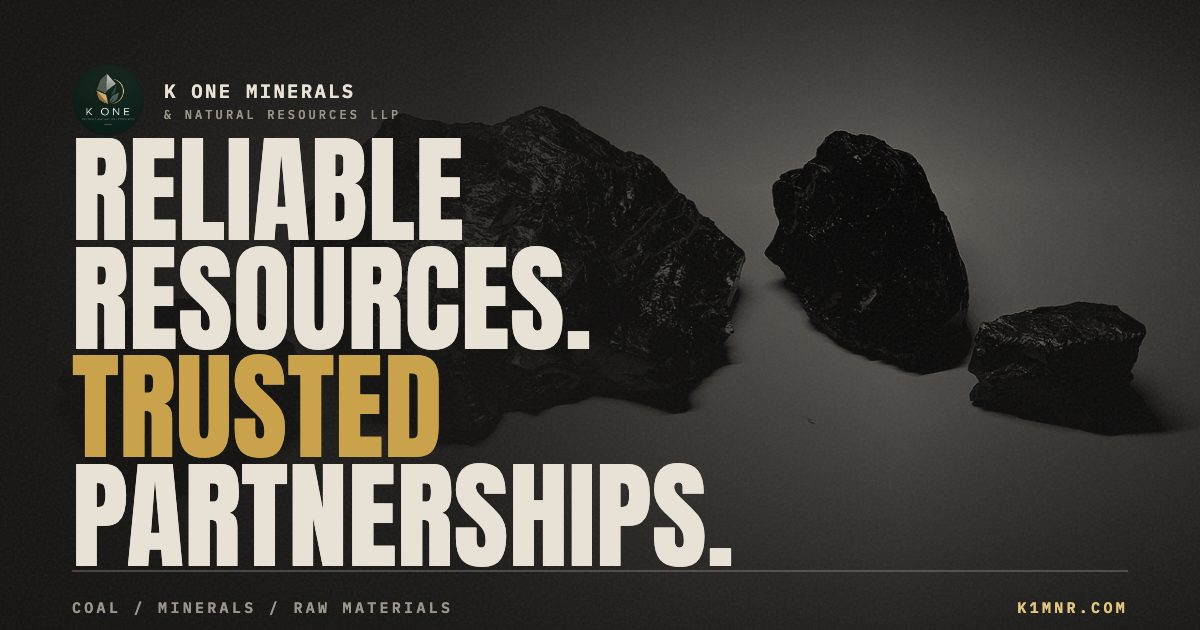
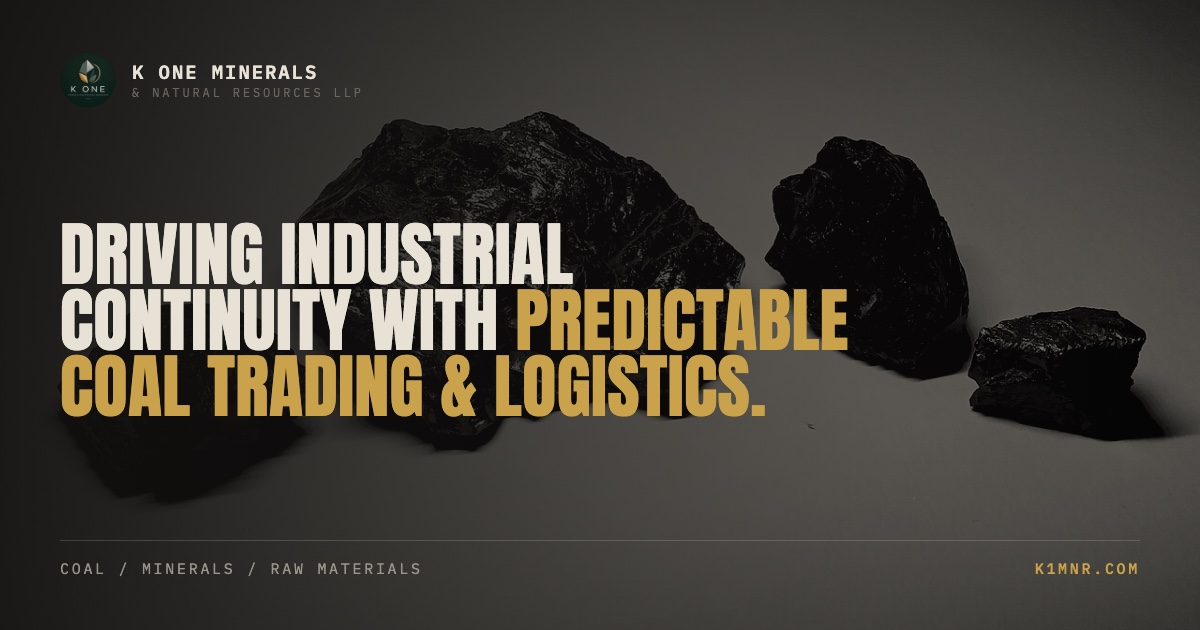
Reposition site around coal trading & logistics per client feedback
Copy rewrite across hero, about, products, supply band, industries and
why sections. Removes the about spec list (and its now-dead CSS and
counter JS), shortens industry labels to 01/02/03, and moves core values
into the left column to rebalance the about grid.

Retires the "Reliable Resources. Trusted Partnerships." tagline from the
footer and meta descriptions; og.jpg regenerated since the old headline
was baked into the artwork.

diff --git a/index.html b/index.html
@@ -4,20 +4,20 @@
 <meta charset="UTF-8">
 <meta name="viewport" content="width=device-width, initial-scale=1.0">
 <title>K One Minerals &amp; Natural Resources LLP — Industrial Commodity Procurement &amp; Trading</title>
-<meta name="description" content="K One Minerals & Natural Resources LLP is a professionally managed procurement and commodity trading company specializing in sourcing and supplying minerals, industrial raw materials, and energy resources across India and international markets.">
-<meta name="keywords" content="commodity trading, industrial minerals, coal supply, limestone, dolomite, iron ore, procurement services, bulk mineral supply, Hyderabad, India">
+<meta name="description" content="K One Minerals & Natural Resources LLP secures high-grade thermal and metallurgical coal directly from global tier-1 mines, handling end-to-end port logistics for India's cement, steel and power industries.">
+<meta name="keywords" content="thermal coal supply, metallurgical coal, coal trading, port logistics, commodity trading, industrial minerals, limestone, dolomite, iron ore, procurement services, Hyderabad, India">
 <meta property="og:title" content="K One Minerals & Natural Resources LLP">
-<meta property="og:description" content="Reliable Resources. Trusted Partnerships. Delivering Industrial Commodities with Integrity.">
+<meta property="og:description" content="Driving industrial continuity with predictable coal trading & logistics — direct from tier-1 mines to your plant gate.">
 <meta property="og:type" content="website">
 <meta property="og:url" content="https://k1mnr.com">
 <meta property="og:site_name" content="K One Minerals & Natural Resources LLP">
 <meta property="og:image" content="https://k1mnr.com/assets/og.jpg">
 <meta property="og:image:width" content="1200">
 <meta property="og:image:height" content="630">
-<meta property="og:image:alt" content="K One Minerals — Reliable Resources. Trusted Partnerships.">
+<meta property="og:image:alt" content="K One Minerals — Driving industrial continuity with predictable coal trading & logistics.">
 <meta name="twitter:card" content="summary_large_image">
 <meta name="twitter:title" content="K One Minerals & Natural Resources LLP">
-<meta name="twitter:description" content="Reliable Resources. Trusted Partnerships. Delivering Industrial Commodities with Integrity.">
+<meta name="twitter:description" content="Driving industrial continuity with predictable coal trading & logistics — direct from tier-1 mines to your plant gate.">
 <meta name="twitter:image" content="https://k1mnr.com/assets/og.jpg">
 <link rel="canonical" href="https://k1mnr.com">
 <link rel="icon" type="image/png" sizes="32x32" href="assets/favicon-32.png">
@@ -207,7 +207,7 @@ body::before{
 .hero-meta b{color:var(--ember-hot);font-weight:500}
 .hero h1{
   font-family:var(--display);font-weight:400;text-transform:uppercase;
-  font-size:clamp(50px,9.4vw,136px);line-height:.9;letter-spacing:.005em;
+  font-size:clamp(34px,5.7vw,82px);line-height:.94;letter-spacing:.005em;
   color:var(--bone);
 }
 .hero h1 .x{color:var(--ember);-webkit-text-stroke:0}
@@ -269,20 +269,7 @@ body::before{
   font-size:clamp(17px,1.65vw,22px);line-height:1.6;color:#33302A;
   margin-top:36px;font-weight:300;
 }
-.about-statement em{font-style:normal;color:var(--ember);font-weight:500}
-/* spec-sheet stats */
-.spec{margin-top:56px;border-top:2px solid var(--carbon)}
-.spec-row{
-  display:grid;grid-template-columns:88px 1fr auto;gap:20px;align-items:baseline;
-  padding:18px 4px;border-bottom:1px solid var(--paper-line);
-}
-.spec-row i{font-family:var(--mono);font-style:normal;font-size:10.5px;letter-spacing:.14em;color:#8A8474}
-.spec-row span{font-size:14.5px;color:#4A463E;letter-spacing:.02em;text-transform:uppercase;font-weight:500}
-.spec-row b{
-  font-family:var(--display);font-weight:400;font-size:clamp(23px,2.15vw,32px);
-  color:var(--carbon);letter-spacing:.01em;
-}
-.spec-row b .x{color:var(--ember)}
+.about-statement em,.lead em{font-style:normal;color:var(--ember);font-weight:500}
 /* photo panel — natural rock cutout */
 .about-photo{position:relative;padding:10px 0}
 .about-photo img{
@@ -296,6 +283,8 @@ body::before{
   text-transform:uppercase;color:var(--ember);margin-bottom:10px;
 }
 .vm-card p{font-size:15px;line-height:1.7;color:#4A463E}
+.vm-card p+p{margin-top:10px}
+.vm-card .vm-lead{color:var(--carbon);font-weight:500}
 .values{display:flex;flex-wrap:wrap;gap:8px;margin-top:4px}
 .values li{
   font-family:var(--mono);font-size:10.5px;font-weight:500;letter-spacing:.12em;text-transform:uppercase;
@@ -613,9 +602,9 @@ footer{background:#0B0A09;color:var(--smoke-dark);padding:76px 0 38px;border-top
   <div class="hero-bg" aria-hidden="true"></div>
   <div class="container hero-inner">
     <p class="hero-meta h-anim"><span><b>EST.</b> HYDERABAD, IN</span><span><b>17.4359°N</b> 78.3945°E</span><span>PROCUREMENT — COMMODITY TRADING</span></p>
-    <h1 class="h-anim">Reliable<br>Resources.<br><span class="x">Trusted</span> Partnerships.</h1>
+    <h1 class="h-anim">Driving industrial continuity<br>with <span class="x">predictable coal<br>trading &amp; logistics.</span></h1>
     <div class="hero-row h-anim">
-      <p class="hero-sub">Delivering industrial commodities with integrity. K One Minerals &amp; Natural Resources LLP is a professionally managed procurement and trading house sourcing <strong>minerals, industrial raw materials, and energy resources</strong> for India's heaviest industries.</p>
+      <p class="hero-sub">We secure <strong>high-grade thermal and metallurgical coal</strong> directly from global tier-1 mines, handling end-to-end port logistics so your power plants and furnaces never run dry.</p>
       <div class="hero-ctas">
         <a class="btn btn-ember" href="#contact">Contact Us
           <svg width="16" height="12" viewBox="0 0 16 12" fill="none"><path d="M1 6h13M10 1l5 5-5 5" stroke="currentColor" stroke-width="1.5"/></svg>
@@ -648,12 +637,17 @@ footer{background:#0B0A09;color:var(--smoke-dark);padding:76px 0 38px;border-top
     <div class="about-grid">
       <div>
         <p class="tag reveal">Who We Are</p>
-        <h2 class="h-display section-title reveal reveal-d1">Built on integrity.<br>Engineered <span class="x">for supply.</span></h2>
-        <p class="about-statement reveal reveal-d2">We serve the <em>cement, steel and power</em> sectors — disciplined procurement, dependable delivery, one consignment at a time.</p>
-        <div class="spec reveal reveal-d3">
-          <div class="spec-row"><i>SPEC—01</i><span>Core Sectors Served</span><b><span class="cnt" data-count="3">0</span><span class="x">+</span></b></div>
-          <div class="spec-row"><i>SPEC—02</i><span>Transparent Documentation</span><b><span class="cnt" data-count="100">0</span><span class="x">%</span></b></div>
-          <div class="spec-row"><i>SPEC—03</i><span>Supply Chain Coverage</span><b><span class="cnt" data-count="360">0</span><span class="x">°</span></b></div>
+        <h2 class="h-display section-title reveal reveal-d1">Built for the industries<br><span class="x">that cannot stop.</span></h2>
+        <p class="about-statement reveal reveal-d2">We exist to take global supply chain volatility off your balance sheet with precision-grade energy resources with absolute timeline certainty.</p>
+        <p class="lead reveal reveal-d3" style="margin-top:26px">We serve the <em>cement, steel and power</em> sectors — disciplined procurement, dependable delivery, one consignment at a time.</p>
+        <div class="vm reveal reveal-d3">
+          <div class="vm-card">
+            <h3>Core Values</h3>
+            <ul class="values">
+              <li>Integrity</li><li>Reliability</li><li>Transparency</li>
+              <li>Professionalism</li><li>Commitment</li><li>Customer Success</li>
+            </ul>
+          </div>
         </div>
       </div>
       <div>
@@ -663,18 +657,13 @@ footer{background:#0B0A09;color:var(--smoke-dark);padding:76px 0 38px;border-top
         <div class="vm reveal reveal-d1">
           <div class="vm-card">
             <h3>Vision</h3>
-            <p>To become one of India's most trusted commodity procurement and natural resource trading companies.</p>
+            <p class="vm-lead">To eliminate supply risk from industrial energy procurement.</p>
+            <p>We envision a global market where heavy industry never faces power drops, production halts, or unpredictable cost spikes due to trade bottlenecks. K ONE is setting the standard for transparent, ironclad commodity delivery across borders.</p>
           </div>
           <div class="vm-card">
             <h3>Mission</h3>
-            <p>Quality sourcing. Strategic partnerships. Transparent business. An efficient supply chain clients can build production schedules on.</p>
-          </div>
-          <div class="vm-card">
-            <h3>Core Values</h3>
-            <ul class="values">
-              <li>Integrity</li><li>Reliability</li><li>Transparency</li>
-              <li>Professionalism</li><li>Commitment</li><li>Customer Success</li>
-            </ul>
+            <p class="vm-lead">To connect primary energy extraction directly to industrial execution with zero friction.</p>
+            <p>We leverage direct-from-mine access, strategic port controls, and rigorous quality inspection to deliver exact-specification coal and natural resources on time, every time, under any market condition.</p>
           </div>
         </div>
       </div>
@@ -690,7 +679,7 @@ footer{background:#0B0A09;color:var(--smoke-dark);padding:76px 0 38px;border-top
         <p class="tag reveal">Products</p>
         <h2 class="h-display section-title reveal reveal-d1">The materials that<br><span class="x">move industry.</span></h2>
       </div>
-      <p class="lead reveal reveal-d2" style="max-width:38ch">From thermal coal to industrial minerals — sourced with discipline, verified for grade, delivered on schedule.</p>
+      <p class="lead reveal reveal-d2" style="max-width:38ch">Precision-grade thermal coal, metallurgical inputs, and industrial minerals delivered on schedule.</p>
     </div>
     <div class="product-grid">
       <article class="product-card reveal">
@@ -726,8 +715,8 @@ footer{background:#0B0A09;color:var(--smoke-dark);padding:76px 0 38px;border-top
   <div class="band-bg " aria-hidden="true"></div>
   <div class="container band-inner">
     <p class="tag reveal">Ground Operations</p>
-    <h2 class="h-display section-title reveal reveal-d1">From pit head to <span class="x">plant gate.</span></h2>
-    <p class="lead reveal reveal-d2">Road, rail and port movements orchestrated door to door — every consignment tracked until it reaches your yard.</p>
+    <h2 class="h-display section-title reveal reveal-d1">End-to-end control over <span class="x">every metric ton.</span></h2>
+    <p class="lead reveal reveal-d2">Eliminating demurrage risks and shipping bottlenecks with hands-on port management, third-party testing, and real-time cargo tracking.</p>
   </div>
 </section>
 
@@ -735,11 +724,11 @@ footer{background:#0B0A09;color:var(--smoke-dark);padding:76px 0 38px;border-top
 <section class="industries light" id="industries">
   <div class="container">
     <p class="tag reveal">Industries We Serve</p>
-    <h2 class="h-display section-title reveal reveal-d1">Three sectors. One standard <span class="x">of reliability.</span></h2>
+    <h2 class="h-display section-title reveal reveal-d1">Industries powered <span class="x">by K One.</span></h2>
     <div class="ind-grid">
-      <div class="ind-cell reveal"><i>IND—01</i><h3>Cement</h3><p>Limestone, gypsum, fly ash and fuel — the full input basket for clinker and grinding units.</p></div>
-      <div class="ind-cell reveal reveal-d1"><i>IND—02</i><h3>Steel</h3><p>Iron ore, dolomite and reductants supplied to demanding metallurgical specifications.</p></div>
-      <div class="ind-cell reveal reveal-d2"><i>IND—03</i><h3>Power Generation</h3><p>Thermal and imported coal on dependable delivery schedules for uninterrupted generation.</p></div>
+      <div class="ind-cell reveal"><i>01</i><h3>Cement</h3><p>Limestone, gypsum, fly ash and fuel — the full input basket for clinker and grinding units.</p></div>
+      <div class="ind-cell reveal reveal-d1"><i>02</i><h3>Steel</h3><p>Iron ore, dolomite and reductants supplied to demanding metallurgical specifications.</p></div>
+      <div class="ind-cell reveal reveal-d2"><i>03</i><h3>Power Generation</h3><p>Thermal and imported coal on dependable delivery schedules for uninterrupted generation.</p></div>
     </div>
   </div>
 </section>
@@ -796,7 +785,7 @@ footer{background:#0B0A09;color:var(--smoke-dark);padding:76px 0 38px;border-top
   <div class="container why-grid">
     <div>
       <p class="tag reveal">Why Choose Us</p>
-      <h2 class="h-display section-title reveal reveal-d1">Chosen for price. <span class="x">Retained for reliability.</span></h2>
+      <h2 class="h-display section-title reveal reveal-d1">Built to protect <span class="x">your supply line.</span></h2>
       <ul class="why-list reveal reveal-d2">
         <li><span><b>Strong supplier network</b> across domestic and international markets</span></li>
         <li><span><b>Professional procurement team</b> with sector-specific expertise</span></li>
@@ -888,7 +877,7 @@ footer{background:#0B0A09;color:var(--smoke-dark);padding:76px 0 38px;border-top
           <img class="brand-logo" src="assets/logo.png" alt="K One Minerals logo">
           <span class="brand-name"><b>K One Minerals</b><span>&amp; Natural Resources LLP</span></span>
         </a>
-        <p>A professionally managed procurement and commodity trading company — sourcing and supplying minerals, industrial raw materials and energy resources with integrity.</p>
+        <p>Securing high-grade thermal and metallurgical coal direct from tier-1 mines, with end-to-end port logistics for India's cement, steel and power industries.</p>
       </div>
       <div class="foot-col">
         <h4>Explore</h4>
@@ -912,7 +901,7 @@ footer{background:#0B0A09;color:var(--smoke-dark);padding:76px 0 38px;border-top
     </div>
     <div class="foot-base">
       <span>© <span id="year">2026</span> K ONE MINERALS &amp; NATURAL RESOURCES LLP</span>
-      <span>RELIABLE RESOURCES / TRUSTED PARTNERSHIPS</span>
+      <span>PREDICTABLE COAL TRADING / END-TO-END LOGISTICS</span>
     </div>
   </div>
 </footer>
@@ -957,23 +946,6 @@ footer{background:#0B0A09;color:var(--smoke-dark);padding:76px 0 38px;border-top
     });
   }, {threshold:.12, rootMargin:"0px 0px -40px 0px"});
   document.querySelectorAll(".reveal").forEach(function(el){ io.observe(el); });
-
-  var cio = new IntersectionObserver(function(entries){
-    entries.forEach(function(en){
-      if(!en.isIntersecting) return;
-      cio.unobserve(en.target);
-      var target = +en.target.getAttribute("data-count");
-      var t0 = null, dur = 1400;
-      var tick = function(ts){
-        if(!t0) t0 = ts;
-        var p = Math.min((ts - t0) / dur, 1);
-        en.target.textContent = Math.round(target * (1 - Math.pow(1 - p, 3)));
-        if(p < 1) requestAnimationFrame(tick);
-      };
-      requestAnimationFrame(tick);
-    });
-  }, {threshold:.6});
-  document.querySelectorAll(".cnt[data-count]").forEach(function(el){ cio.observe(el); });
 
   document.getElementById("year").textContent = new Date().getFullYear();
 })();
